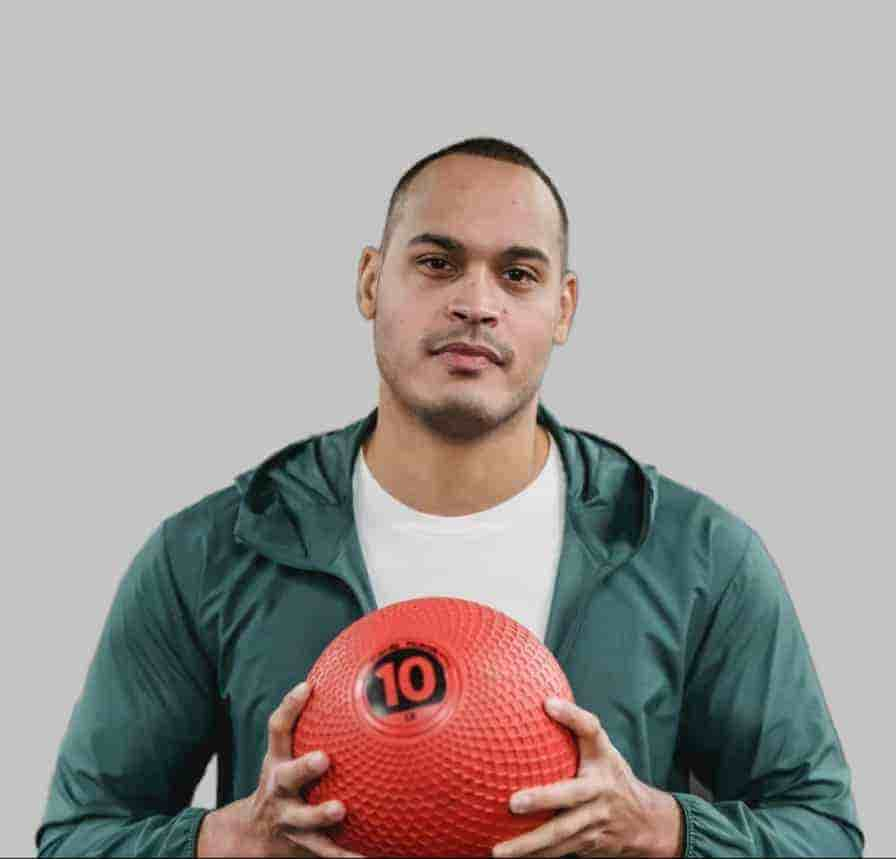
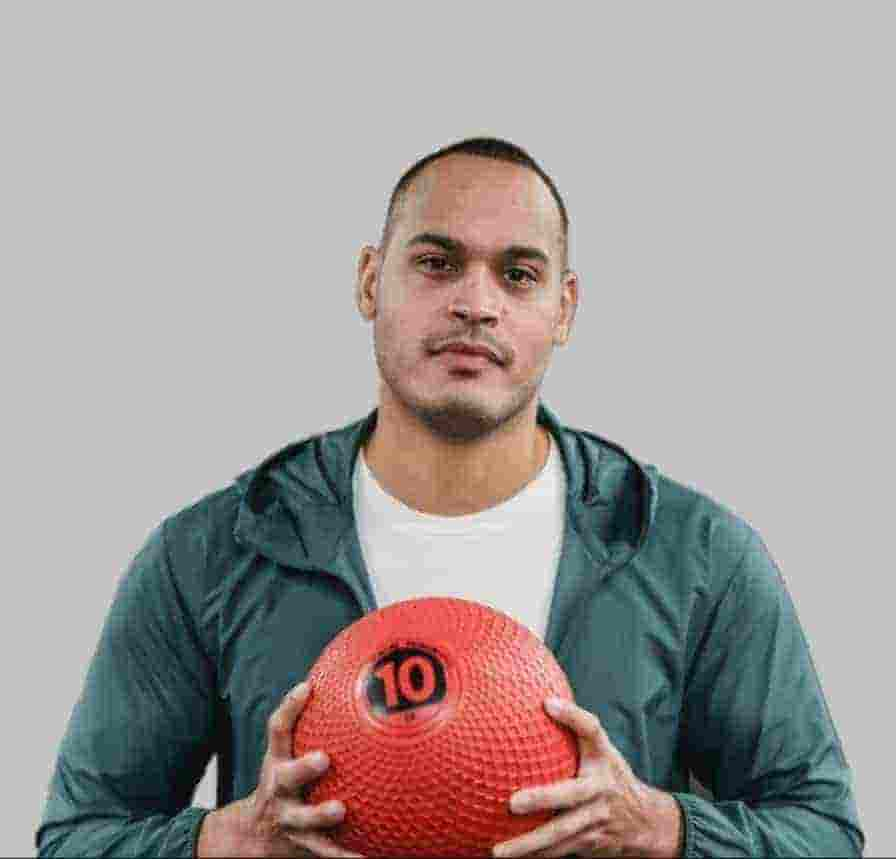
image compression

diff --git a/src/ts/components/header/header.scss b/src/ts/components/header/header.scss
@@ -17,6 +17,11 @@
     list-style-type: none;
     margin-left: 0;
     padding-left: 0;
+    display: flex;
+    flex-direction: row;
+    gap: 25px;
+    justify-content: center;
+    align-items: center;
 }
 
 .nav-item {
@@ -41,12 +46,9 @@
     transition: 0.25s;
 }
 
-.nav-list {
-    display: flex;
-    flex-direction: row;
-    gap: 25px;
-    justify-content: center;
-    align-items: center;
+.header-logo {
+    width: 50px;
+    height: 20px;
 }
 
 @media screen and (max-width: 768px) {

diff --git a/src/ts/pages/home/home.tsx b/src/ts/pages/home/home.tsx
@@ -211,7 +211,6 @@ const Home = () => {
                     src="/images/home-landing-bg.jpg"
                     alt="Gym Background"
                     className="landing-bg"
-                    loading="lazy"
                 />
 
                 <div
